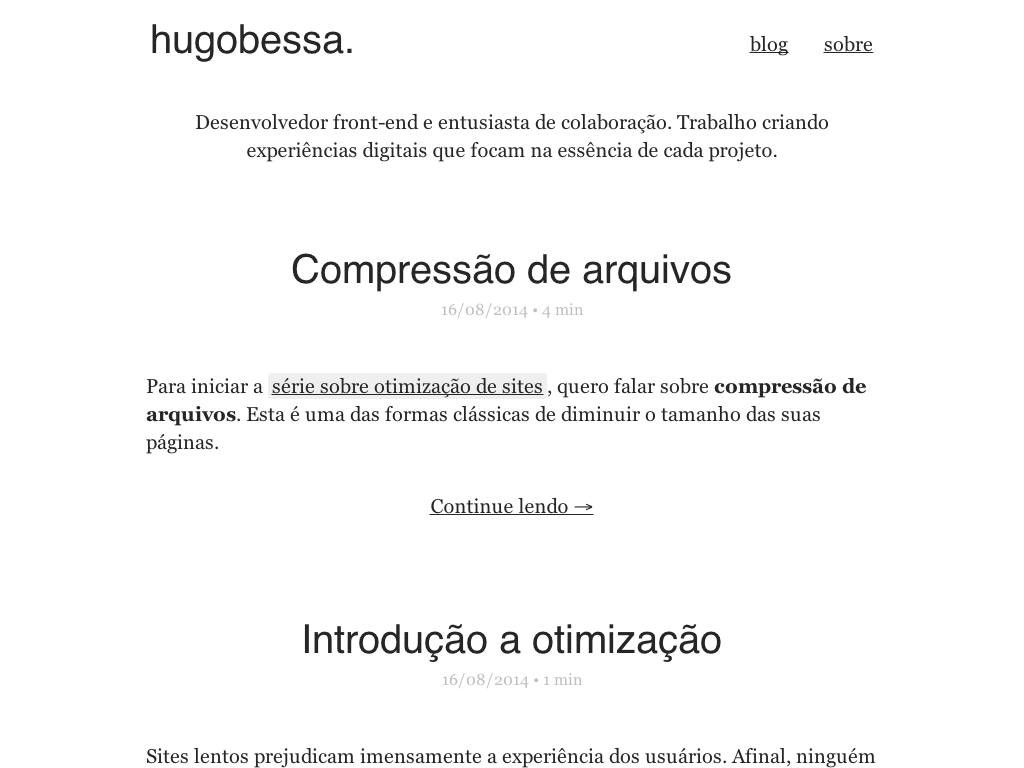
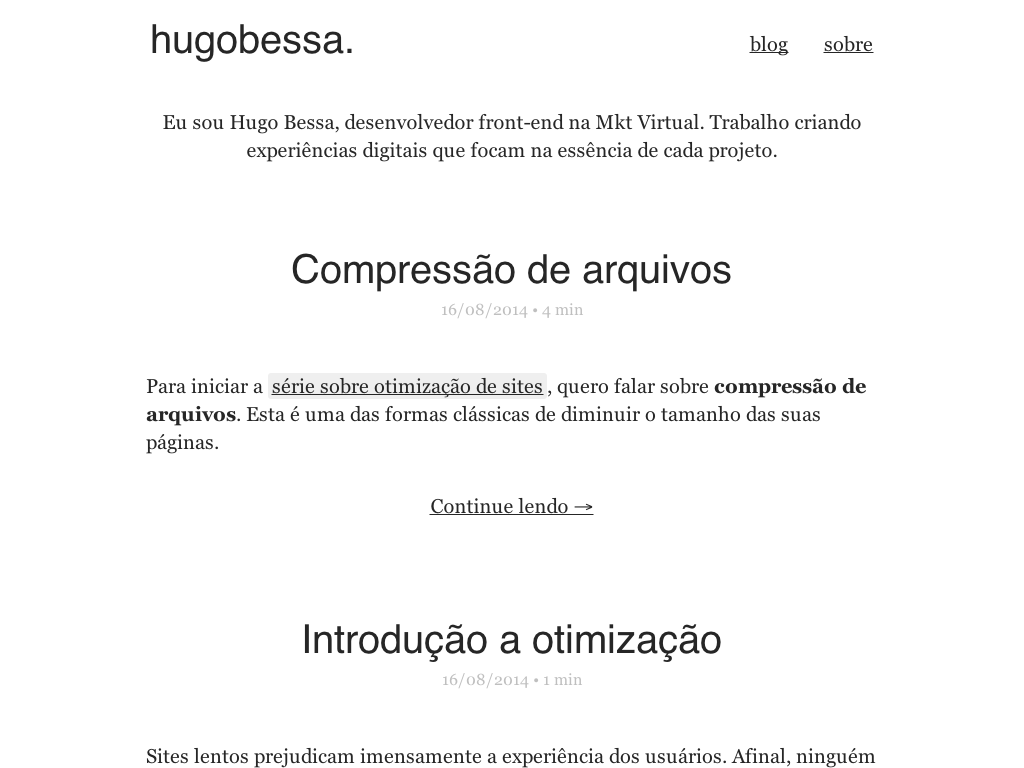
Improve SEO with microdata

Changed region(s): [[0.1562, 0.125, 0.8438, 0.1875]]

diff --git a/app/sobre.html b/app/sobre.html
@@ -6,8 +6,8 @@ permalink: /sobre/
 nav: 1
 ---
 
-<div class="container">
-    <p>Eu sou Hugo Bessa, desenvolvedor front-end e entusiasta de colaboração. Atualmente trabalho na <a href="http://mktvirtual.com.br/">Mkt Virtual</a> e moro em Santos, Brasil.</p>
+<div class="container" itemscope itemtype="http://data-vocabulary.org/Person">
+    <p>Eu sou <span itemprop="name">Hugo Bessa</span>, <span itemprop="title">desenvolvedor front-end</span> e entusiasta de colaboração. Atualmente trabalho na <a href="http://mktvirtual.com.br/" itemprop="affiliation">Mkt Virtual</a> e moro em <span itemscope itemprop="address" itemtype="http://data-vocabulary.org/Address"><span itemprop="locality">Santos</span>, <span itemprop="region">São Paulo</span>.</p>
 
     <img src="{{ site.baseurl }}/_assets/images/hugo-bessa.jpg" alt="Foto de perfil Hugo Bessa">
 

diff --git a/app/_includes/header.html b/app/_includes/header.html
@@ -13,9 +13,9 @@
         </nav>
 
         {% if page.home %}
-            <div class="header__about">
+            <div class="header__about" itemscope itemtype="http://data-vocabulary.org/Person">
                 <p>
-                    Desenvolvedor front-end e entusiasta de colaboração. Trabalho criando experiências digitais que focam na essência de cada projeto.
+                    Eu sou <span itemprop="name">Hugo Bessa</span>, <span itemprop="title">desenvolvedor front-end</span> na <span itemprop="affiliation">Mkt Virtual</span>. Trabalho criando experiências digitais que focam na essência de cada projeto.
                 </p>
             </div>
         {% endif %}
